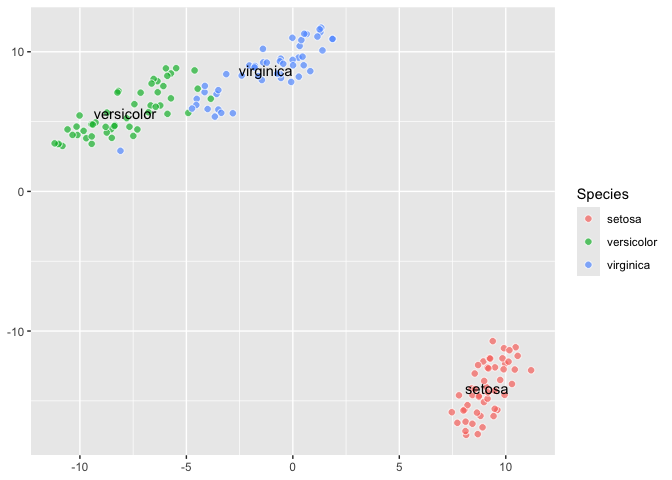
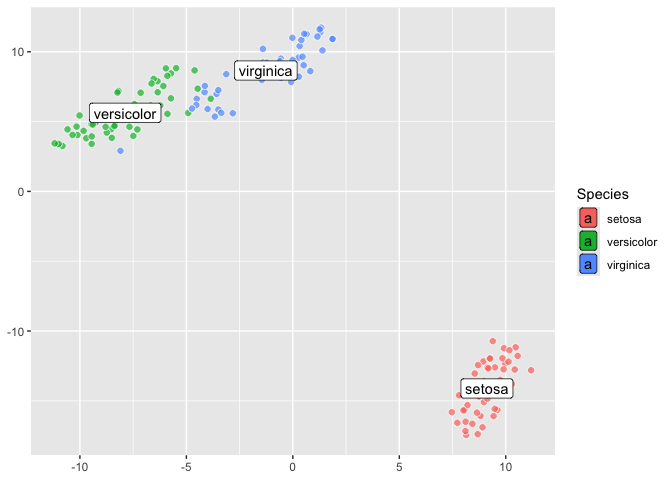
update

diff --git a/README.md b/README.md
@@ -14,10 +14,9 @@
     - [`dims_expand`](#dims_expand)
   - [Now let’s actually define `dims_listed()` and
     `vars_unpack`](#now-lets-actually-define-dims_listed-and-vars_unpack)
-- [Applications: tsne, umap, PCA](#applications-tsne-umap-pca)
-  - [compute_tsne, geom_tsne, using
-    `Rtsne::Rtsne`](#compute_tsne-geom_tsne-using-rtsnertsne)
-    - [Different perplexity](#different-perplexity)
+- [compute_tsne, geom_tsne, using
+  `Rtsne::Rtsne`](#compute_tsne-geom_tsne-using-rtsnertsne)
+  - [Different perplexity](#different-perplexity)
 - [‘How to Use t-SNE Effectively’ reproduction
   exercise](#how-to-use-t-sne-effectively-reproduction-exercise)
   - [1. ‘Those hyperparameters really
@@ -28,10 +27,10 @@
     anything’](#3-distances-between-clusters-might-not-mean-anything)
   - [4. ‘Random noise doesn’t always look
     random’](#4-random-noise-doesnt-always-look-random)
-  - [A little UMAP using `umap::umap`](#a-little-umap-using-umapumap)
-  - [A little PCA using
-    `ordr::ordinate`](#a-little-pca-using-ordrordinate)
-    - [w/ penguins](#w-penguins)
+- [A little UMAP using `umap::umap`](#a-little-umap-using-umapumap)
+- [A little PCA using
+  `ordr::ordinate`](#a-little-pca-using-ordrordinate)
+  - [w/ penguins](#w-penguins)
 - [UNGA voting patterns through PCA, t-SNE, and UMAP
   lenses](#unga-voting-patterns-through-pca-t-sne-and-umap-lenses)
   - [A little Venn diagrams using
@@ -379,9 +378,7 @@ data |>
 
 </details>
 
-# Applications: tsne, umap, PCA
-
-## compute_tsne, geom_tsne, using [`Rtsne::Rtsne`](https://github.com/jkrijthe/Rtsne)
+# compute_tsne, geom_tsne, using [`Rtsne::Rtsne`](https://github.com/jkrijthe/Rtsne)
 
 <details>
 
@@ -460,7 +457,7 @@ geom_tsne0 <- make_constructor(GeomPointFill,
                                perplexity = 30)
 
 #' @export
-geom_tsne_label0 <- make_constructor(GeomText, 
+geom_tsne_label0 <- make_constructor(GeomLabel, 
                                      stat = StatTsneGroup,
                                      perplexity = 30)
 ```
@@ -781,7 +778,7 @@ panel_of_six_tsne_two_cluster &
 
 ![](README_files/figure-gfm/unnamed-chunk-25-1.png)<!-- -->
 
-## A little UMAP using [`umap::umap`](https://github.com/tkonopka/umap)
+# A little UMAP using [`umap::umap`](https://github.com/tkonopka/umap)
 
 <details>
 
@@ -875,7 +872,7 @@ last_plot() +
 
 ![](README_files/figure-gfm/unnamed-chunk-26-2.png)<!-- -->
 
-## A little PCA using `ordr::ordinate`
+# A little PCA using `ordr::ordinate`
 
 <details>
 
